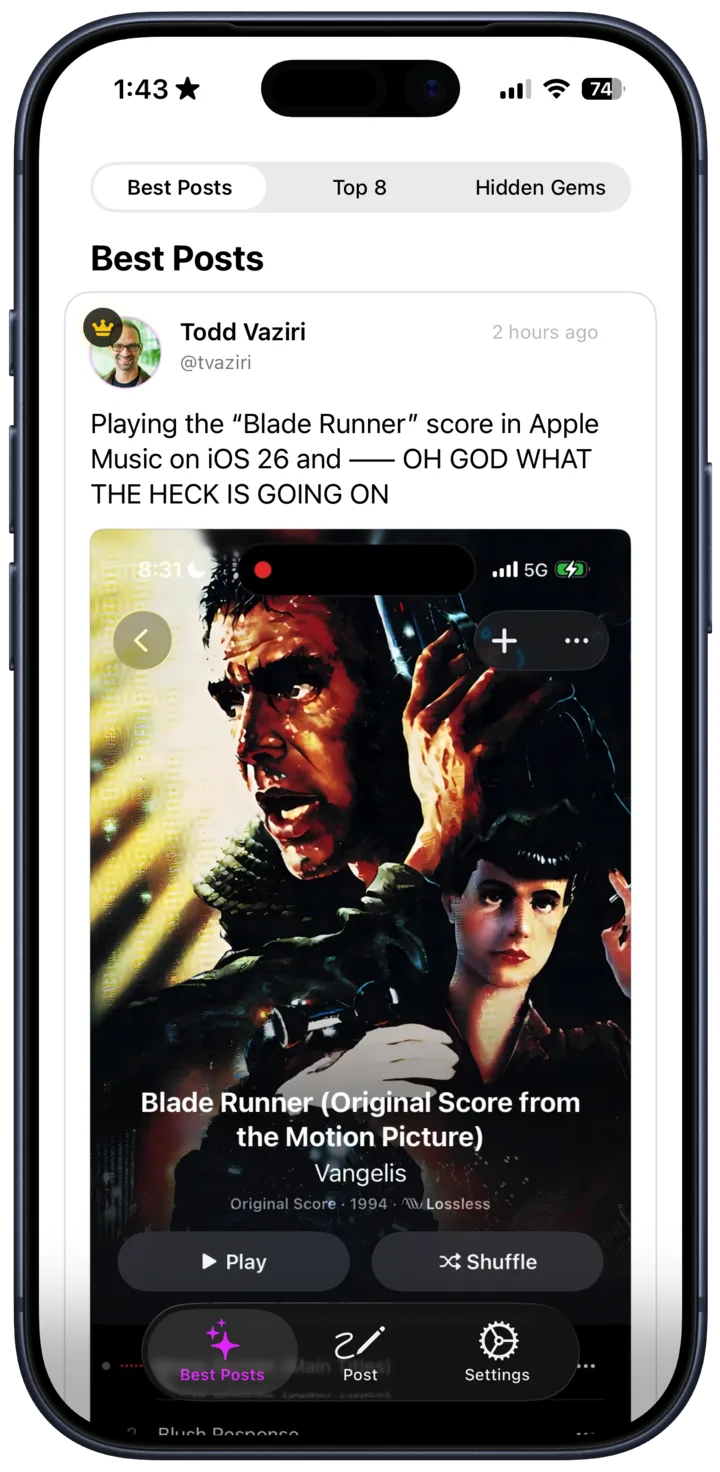
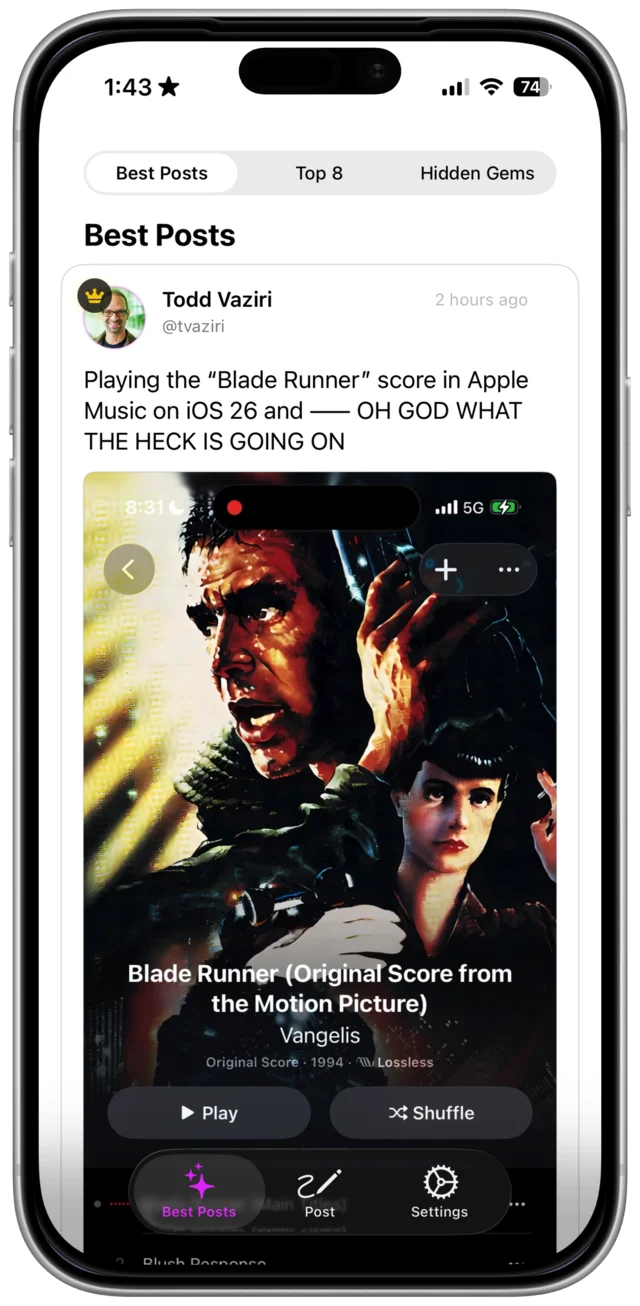
Show real app captures on the homepage tiles
Swap the homepage screenshots for each app's raw App Store captures,
framed in matching Silver iPhone bezels. Quick Reviews, Quick Reads, and
Yearly Run Goals show two screens; Chapterize shows the Mac app with the
iPhone app in front. Birchfeed zooms in on its News Stream and Pastry
shows its clipboard panel. Weave and Best-o-Masto had no raw captures, so
their screens were recovered from existing images and re-framed.

App pages are unchanged.

diff --git a/index.html b/index.html
@@ -26,7 +26,7 @@
     <link rel="preconnect" href="https://fonts.gstatic.com" crossorigin>
     <link href="https://fonts.googleapis.com/css2?family=Atkinson+Hyperlegible+Next:ital,wght@0,400;0,500;0,600;0,700;1,400&display=swap" rel="stylesheet">
     <link rel="preload" href="fonts/MonoLisaText-Bold.woff2" as="font" type="font/woff2" crossorigin>
-    <link rel="stylesheet" href="home.css?v=db23ae6f">
+    <link rel="stylesheet" href="home.css?v=296c1587">
     <script>document.documentElement.classList.add('js');</script>
 
     <!-- Structured Data -->
@@ -95,9 +95,9 @@
 
             <div class="bento">
                 <article class="app-tile reveal" style="--span: 7; --tint: #e5484d;">
-                    <div class="app-tile-stage stage-duo">
-                        <img src="images/home/quick-reviews.webp" alt="" class="shot-phone" loading="lazy">
-                        <img src="images/home/quick-reviews-card.webp" alt="" class="shot-card" loading="lazy">
+                    <div class="app-tile-stage stage-pair">
+                        <img src="images/home/quick-reviews-wrapped.webp" alt="" class="shot-back" loading="lazy">
+                        <img src="images/home/quick-reviews-list.webp" alt="" class="shot-front" loading="lazy">
                     </div>
                     <div class="app-tile-body">
                         <img src="images/quick-reviews.png" alt="Quick Reviews icon" class="app-icon" style="view-transition-name: quick-reviews-icon;">
@@ -111,8 +111,9 @@
                 </article>
 
                 <article class="app-tile reveal" style="--span: 5; --tint: #8b5cf6;">
-                    <div class="app-tile-stage stage-window">
-                        <img src="images/home/quick-reads.webp" alt="" loading="lazy">
+                    <div class="app-tile-stage stage-pair">
+                        <img src="images/home/quick-reads-queue.webp" alt="" class="shot-back" loading="lazy">
+                        <img src="images/home/quick-reads-reader.webp" alt="" class="shot-front" loading="lazy">
                     </div>
                     <div class="app-tile-body">
                         <img src="images/quick-reads-icon.svg" alt="Quick Reads icon" class="app-icon" style="view-transition-name: quick-reads-icon;">
@@ -125,8 +126,8 @@
                 </article>
 
                 <article class="app-tile reveal" style="--span: 4; --tint: #2f3238;">
-                    <div class="app-tile-stage stage-window">
-                        <img src="images/home/birchfeed.webp" alt="" loading="lazy">
+                    <div class="app-tile-stage stage-window stage-window-wide">
+                        <img src="images/home/birchfeed-stream.webp" alt="" loading="lazy">
                     </div>
                     <div class="app-tile-body">
                         <img src="images/birchfeed-icon.png" alt="Birchfeed icon" class="app-icon" style="view-transition-name: birchfeed-icon;">
@@ -139,8 +140,8 @@
                 </article>
 
                 <article class="app-tile reveal" style="--span: 4; --tint: #c2567a;">
-                    <div class="app-tile-stage stage-cover">
-                        <img src="images/home/pastry.webp" alt="" loading="lazy">
+                    <div class="app-tile-stage stage-cover stage-cover-top">
+                        <img src="images/home/pastry-history.webp" alt="" loading="lazy">
                     </div>
                     <div class="app-tile-body">
                         <img src="images/pastry.png" alt="Pastry icon" class="app-icon" style="view-transition-name: pastry-icon;">
@@ -153,8 +154,8 @@
                 </article>
 
                 <article class="app-tile reveal" style="--span: 4; --tint: #c8401f;">
-                    <div class="app-tile-stage stage-window">
-                        <img src="images/home/nonogame.webp" alt="" loading="lazy">
+                    <div class="app-tile-stage stage-phone">
+                        <img src="images/home/nonogame-today.webp" alt="" loading="lazy">
                     </div>
                     <div class="app-tile-body">
                         <img src="images/nonogame-icon.svg" alt="nonogame icon" class="app-icon" style="view-transition-name: nonogame-icon;">
@@ -167,8 +168,9 @@
                 </article>
 
                 <article class="app-tile reveal" style="--span: 6; --tint: #2f96d8;">
-                    <div class="app-tile-stage stage-window">
-                        <img src="images/home/chapterize.webp" alt="" loading="lazy">
+                    <div class="app-tile-stage stage-mac-phone">
+                        <img src="images/home/chapterize-mac.webp" alt="" class="shot-mac" loading="lazy">
+                        <img src="images/home/chapterize-shows.webp" alt="" class="shot-front" loading="lazy">
                     </div>
                     <div class="app-tile-body">
                         <img src="images/chapterpod.png" alt="Chapterize icon" class="app-icon" style="view-transition-name: chapterpod-icon;">
@@ -181,8 +183,9 @@
                 </article>
 
                 <article class="app-tile reveal" style="--span: 6; --tint: #16a34a;">
-                    <div class="app-tile-stage stage-phone">
-                        <img src="images/home/yearly-run-goals.webp" alt="" loading="lazy">
+                    <div class="app-tile-stage stage-pair">
+                        <img src="images/home/yearly-run-goals-insights.webp" alt="" class="shot-back" loading="lazy">
+                        <img src="images/home/yearly-run-goals-progress.webp" alt="" class="shot-front" loading="lazy">
                     </div>
                     <div class="app-tile-body">
                         <img src="images/yearly run goals.png" alt="Yearly Run Goals icon" class="app-icon" style="view-transition-name: yearly-run-goals-icon;">
@@ -195,8 +198,8 @@
                 </article>
 
                 <article class="app-tile reveal" style="--span: 4; --tint: #3f6fb0;">
-                    <div class="app-tile-stage stage-cover">
-                        <img src="images/home/quick-subtitles.webp" alt="" loading="lazy">
+                    <div class="app-tile-stage stage-phone">
+                        <img src="images/home/quick-subtitles-console.webp" alt="" loading="lazy">
                     </div>
                     <div class="app-tile-body">
                         <img src="images/quick subtitles.png" alt="Quick Subtitles icon" class="app-icon" style="view-transition-name: quick-subtitles-icon;">
@@ -210,7 +213,7 @@
 
                 <article class="app-tile reveal" style="--span: 4; --tint: #ea580c;">
                     <div class="app-tile-stage stage-phone">
-                        <img src="images/home/quick-notes.webp" alt="" loading="lazy">
+                        <img src="images/home/quick-notes-recording.webp" alt="" loading="lazy">
                     </div>
                     <div class="app-tile-body">
                         <img src="images/quick notes.png" alt="Quick Notes icon" class="app-icon" style="view-transition-name: quick-notes-icon;">
@@ -223,8 +226,8 @@
                 </article>
 
                 <article class="app-tile reveal" style="--span: 4; --tint: #65a30d;">
-                    <div class="app-tile-stage stage-cover stage-cover-top">
-                        <img src="images/home/weave.webp" alt="" loading="lazy">
+                    <div class="app-tile-stage stage-phone">
+                        <img src="images/home/weave-compose.webp" alt="" loading="lazy">
                     </div>
                     <div class="app-tile-body">
                         <img src="images/typefully-icon.png" alt="Weave icon" class="app-icon" style="view-transition-name: weave-icon;">

diff --git a/home.css b/home.css
@@ -410,8 +410,8 @@ body.calm {
 .calm .stage-phone img {
     position: absolute;
     left: 50%;
-    top: 1.75rem;
-    width: clamp(9.5rem, 40%, 12.5rem);
+    top: 1.5rem;
+    width: clamp(10.5rem, 52%, 14rem);
     transform: translateX(-50%);
     filter: drop-shadow(0 22px 26px rgba(0, 0, 0, 0.2));
 }
@@ -441,34 +441,59 @@ body.calm {
     object-position: center top;
 }
 
-/* Quick Reviews: the app, plus a review it made. */
-.calm .stage-duo .shot-phone {
+/* Wide web captures zoom in so the text stays readable. */
+.calm .stage-window-wide img {
+    width: 150%;
+}
+
+/* Two phones: one in front, a second screen peeking from behind. */
+.calm .stage-pair img {
     position: absolute;
-    left: 12%;
-    top: 1.75rem;
-    width: clamp(9.5rem, 28%, 13rem);
+    left: 50%;
+    width: clamp(8.5rem, 36%, 12rem);
     filter: drop-shadow(0 22px 26px rgba(0, 0, 0, 0.2));
 }
 
-.calm .stage-duo .shot-card {
+.calm .stage-pair .shot-back {
+    top: 3.25rem;
+    transform: translateX(-88%) scale(0.92);
+    transform-origin: top center;
+    opacity: 0.96;
+}
+
+.calm .stage-pair .shot-front {
+    top: 1.5rem;
+    transform: translateX(-8%);
+}
+
+/* Mac window with the iPhone app in front of it. */
+.calm .stage-mac-phone .shot-mac {
     position: absolute;
-    right: -4%;
-    top: 22%;
-    width: 60%;
-    border-radius: 0.9rem;
-    box-shadow: 0 30px 50px -24px rgba(80, 10, 20, 0.55);
-    rotate: -3deg;
+    top: clamp(1.25rem, 2.4vw, 2rem);
+    left: clamp(1.25rem, 2.4vw, 2rem);
+    width: 112%;
+    max-width: none;
+    filter: drop-shadow(0 20px 30px rgba(0, 0, 0, 0.18));
+}
+
+.calm .stage-mac-phone .shot-front {
+    position: absolute;
+    right: 7%;
+    top: 3.5rem;
+    width: clamp(7rem, 25%, 9.5rem);
+    filter: drop-shadow(0 22px 26px rgba(0, 0, 0, 0.25));
 }
 
 @media (prefers-reduced-motion: no-preference) {
     .calm .app-tile:hover .stage-phone img,
     .calm .app-tile:hover .stage-window img,
-    .calm .app-tile:hover .stage-duo .shot-phone {
+    .calm .app-tile:hover .shot-front {
         translate: 0 -10px;
     }
 
-    .calm .app-tile:hover .stage-duo .shot-card {
-        translate: -6px -4px;
+    .calm .app-tile:hover .shot-back,
+    .calm .app-tile:hover .shot-mac {
+        translate: 0 -5px;
     }
 
     .calm .app-tile:hover .stage-cover img {
@@ -883,15 +908,8 @@ body.calm {
         width: 125%;
     }
 
-    .calm .stage-duo .shot-phone {
-        left: 6%;
-        width: 40%;
-    }
-
-    .calm .stage-duo .shot-card {
-        width: 70%;
-        right: -14%;
-        top: 30%;
+    .calm .stage-pair img {
+        width: clamp(8.5rem, 40%, 11rem);
     }
 
     .calm .nav-logo span {

diff --git a/CLAUDE.md b/CLAUDE.md
@@ -91,12 +91,18 @@ headings) and has no gradients:
   `.springboard-slot` is the next free spot).
 - **Apps bento** (`.bento` > `.app-tile`, width via `style="--span: 4"` out of
   12, tinted via `--tint`, which should match that app's `--app-accent`).
-  Each tile's `.app-tile-stage` holds a screenshot in one of three treatments:
-  `stage-phone` (framed iPhone capture), `stage-window` (Mac or web capture
-  that bleeds off the corner), or `stage-cover` (art with its own backdrop).
-  The whole tile is clickable through its "Learn more" link.
-- **Images**: use resized WebP copies in `images/home/`, not the full-size
-  originals.
+  Each tile's `.app-tile-stage` uses one treatment: `stage-phone` (one framed
+  iPhone), `stage-pair` (a `.shot-front` phone with a `.shot-back` screen
+  behind it), `stage-mac-phone` (a `.shot-mac` window with a `.shot-front`
+  phone), `stage-window` (Mac or web capture bleeding off the corner; add
+  `stage-window-wide` to zoom in), or `stage-cover` (art with its own
+  backdrop). The whole tile is clickable through its "Learn more" link.
+- **Images**: resized WebP copies in `images/home/`, about 640px wide for
+  phones. Phones come from each app's raw App Store captures (e.g.
+  `~/Apps/<App>/scripts/listing-screenshots/shots/` or
+  `fastlane/screenshots_raw/`), not the captioned listing images, framed with
+  the `frames` CLI in Silver: `frames -c Silver -d "iPhone 17 Pro Max
+  Portrait" shot.png`.
 
 ## App Page Live Demos
 
